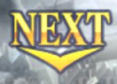
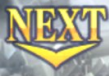
Auto Story: tight-cut NEXT templates in three render variants
Loose template crops included the map background, whose fog and
brightness vary per moment, so scores collapsed on device (0.37-0.58)
even with the marker in plain sight. Templates are now cut tightly
around the letters in three variants (dark, bright, whole-map),
cross-measured on all device screenshots: every visible marker hits
0.66-1.00 with at least one variant, marker-less screens peak at
0.42; threshold set to 0.65. Tap target unchanged: the node just
below the marker.

diff --git a/scripts/src/main/java/io/github/fate_grand_automata/scripts/modules/StoryMapFinder.kt b/scripts/src/main/java/io/github/fate_grand_automata/scripts/modules/StoryMapFinder.kt
@@ -44,12 +44,14 @@ class StoryMapFinder @Inject constructor(
         const val ZOOM_IN_STEPS = 2
 
         /**
-         * Similarity for the NEXT marker template. Measured against two JP
-         * device screenshots: 0.97 (source frame) and 0.76 (same map, marker
-         * dimmed by fog), with the best false location at 0.38 — so 0.7
-         * keeps a wide safety margin on both sides.
+         * Similarity for the NEXT marker templates. The templates are cut
+         * tightly around the letters (background fog/brightness varies too
+         * much for loose crops). Cross-measured on four JP device
+         * screenshots: every visible marker scores 0.66–1.00 with at least
+         * one template, while screens without a marker peak at 0.42 — so
+         * 0.65 sits between the two sides.
          */
-        const val NEXT_MARKER_SIMILARITY = 0.7
+        const val NEXT_MARKER_SIMILARITY = 0.65
     }
 
     /**
@@ -111,10 +113,14 @@ class StoryMapFinder @Inject constructor(
     private fun findNextMarker(): Location? {
         val area = locations.story.mapScanRegion
 
-        // Next node on the chapter map itself. The marker is rendered at
-        // two sizes: zoomed into an area (StoryNext) and in the initial
-        // whole-map view (StoryNextWide) — try both.
+        // Next node on the chapter map itself. The marker's rendering
+        // varies with zoom level and map brightness, so three tight-cut
+        // variants are tried; the tap target is the node just below the
+        // marker in every case.
         area.find(images[Images.StoryNext], NEXT_MARKER_SIMILARITY)
+            ?.let { match -> return match.region.center + locations.story.storyNodeOffset }
+
+        area.find(images[Images.StoryNextBright], NEXT_MARKER_SIMILARITY)
             ?.let { match -> return match.region.center + locations.story.storyNodeOffset }
 
         area.find(images[Images.StoryNextWide], NEXT_MARKER_SIMILARITY)

diff --git a/scripts/src/main/java/io/github/fate_grand_automata/scripts/Images.kt b/scripts/src/main/java/io/github/fate_grand_automata/scripts/Images.kt
@@ -19,6 +19,7 @@ enum class Images(val path: String) {
     StorySkip("storyskip.png"),
     StoryNext("story_next.png"),
     StoryNextWide("story_next_wide.png"),
+    StoryNextBright("story_next_bright.png"),
     StoryNextChapter("story_next_chapter.png"),
     StoryNextPanel("story_next_panel.png"),
     Menu("menu.png"),
